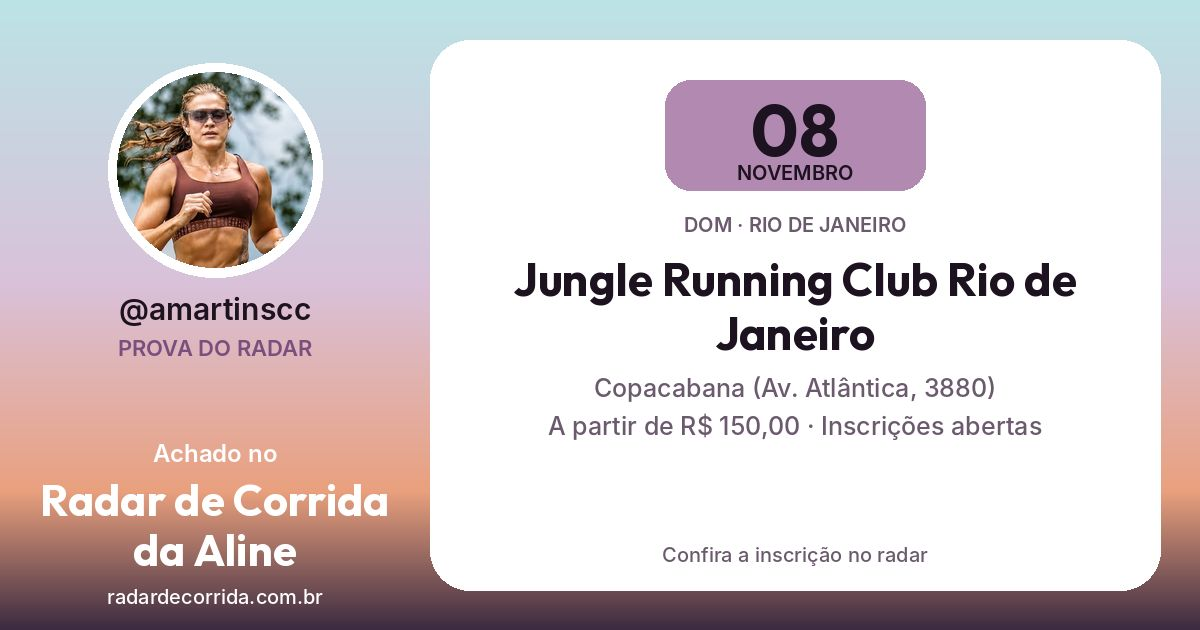
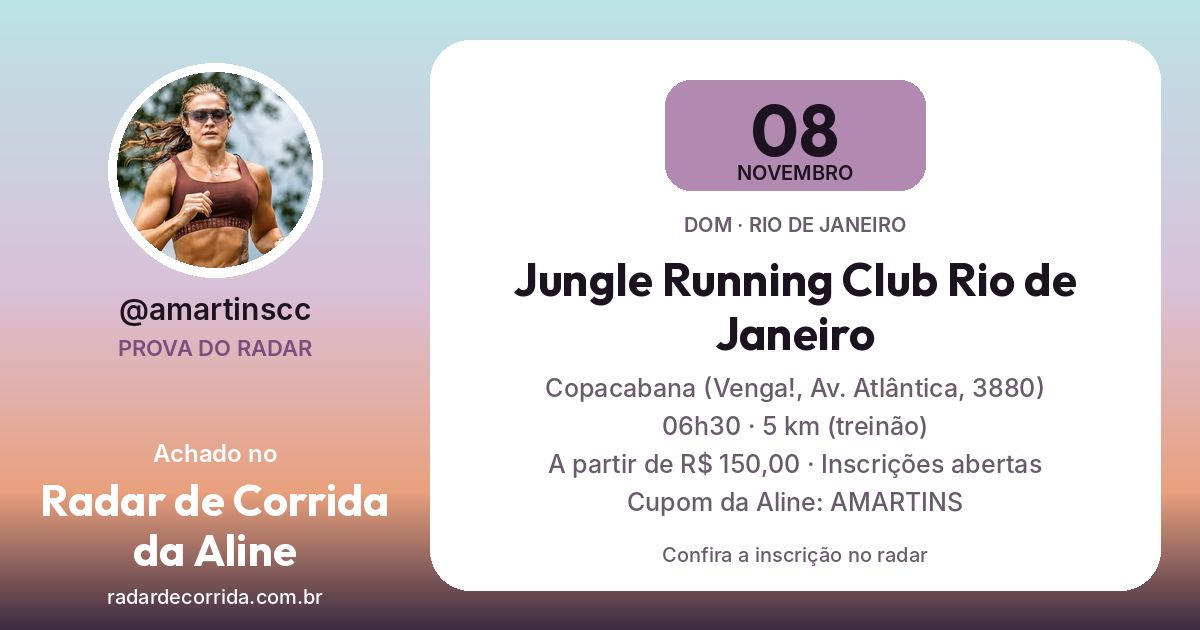
Jungle Running Club Rio com dados oficiais e cupom da Aline; cupom por prova
Claude-Session: https://claude.ai/code/session_01AmnfUhjH3e8qUhmooWSXSi

Changed region(s): [[0.4317, 0.6032, 0.8633, 0.6937], [0.4625, 0.7238, 0.8633, 0.754], [0.5242, 0.7841, 0.8017, 0.8143]]

diff --git a/prova/jungle-running-club-rio-de-janeiro-2026-11-08/index.html b/prova/jungle-running-club-rio-de-janeiro-2026-11-08/index.html
@@ -4,14 +4,14 @@
 <meta charset="utf-8">
 <meta name="viewport" content="width=device-width,initial-scale=1">
 <title>Jungle Running Club Rio de Janeiro – 8 de novembro de 2026, Rio de Janeiro · Radar de Corrida</title>
-<meta name="description" content="08 de novembro de 2026 · Copacabana (Av. Atlântica, 3880) · Inscrições abertas. Achado no Radar de Corrida da Aline.">
+<meta name="description" content="08 de novembro de 2026 · Copacabana (Venga!, Av. Atlântica, 3880) · 5 km (treinão) · Inscrições abertas. Cupom da Aline na inscrição: AMARTINS. Achado no Radar de Corrida da Aline.">
 <meta name="robots" content="index,follow,max-image-preview:large">
 <link rel="canonical" href="https://radardecorrida.com.br/prova/jungle-running-club-rio-de-janeiro-2026-11-08/">
 <meta property="og:type" content="website">
 <meta property="og:locale" content="pt_BR">
 <meta property="og:site_name" content="Radar de Corrida da Aline">
 <meta property="og:title" content="Jungle Running Club Rio de Janeiro">
-<meta property="og:description" content="08 de novembro de 2026 · Copacabana (Av. Atlântica, 3880) · Inscrições abertas. Achado no Radar de Corrida da Aline.">
+<meta property="og:description" content="08 de novembro de 2026 · Copacabana (Venga!, Av. Atlântica, 3880) · 5 km (treinão) · Inscrições abertas. Cupom da Aline na inscrição: AMARTINS. Achado no Radar de Corrida da Aline.">
 <meta property="og:url" content="https://radardecorrida.com.br/prova/jungle-running-club-rio-de-janeiro-2026-11-08/">
 <meta property="og:image" content="https://radardecorrida.com.br/og/prova-jungle-running-club-rio-de-janeiro-2026-11-08.jpg">
 <meta property="og:image:secure_url" content="https://radardecorrida.com.br/og/prova-jungle-running-club-rio-de-janeiro-2026-11-08.jpg">
@@ -23,7 +23,7 @@
 <meta name="theme-color" content="#BBE3E5">
 <link rel="icon" type="image/png" href="/favicon.png">
 <style>*{box-sizing:border-box}body{margin:0;font-family:"Plus Jakarta Sans",system-ui,-apple-system,"Segoe UI",sans-serif;background:#F6F0F6 linear-gradient(180deg,#BBE3E5 0,#D9C1D9 360px,#F6F0F6 720px) no-repeat;color:#1D1220;padding:24px 16px 40px}.c{max-width:560px;margin:0 auto;display:flex;flex-direction:column;gap:14px}img{width:100%;height:auto;border-radius:18px;display:block}h1{font:800 28px/1.1 system-ui,sans-serif;margin:0}p{margin:0;color:#6B5A6E}a.b{display:block;text-align:center;padding:13px 18px;border-radius:999px;text-decoration:none;font-weight:700}a.p{background:#B28AB1;color:#1D1220}a.s{background:#fff;color:#7A4E7D;border:1.5px solid #B28AB1}.x{text-align:center;font-size:14px}.x a{color:#7A4E7D}.n{background:#FFF0DC;color:#9A5B00;padding:10px 14px;border-radius:14px;font-weight:600}</style>
-<script type="application/ld+json">{"@context": "https://schema.org", "@type": "SportsEvent", "name": "Jungle Running Club Rio de Janeiro", "startDate": "2026-11-08", "eventAttendanceMode": "https://schema.org/OfflineEventAttendanceMode", "eventStatus": "https://schema.org/EventScheduled", "sport": "Corrida de rua", "location": {"@type": "Place", "name": "Copacabana (Av. Atlântica, 3880)", "address": {"@type": "PostalAddress", "addressRegion": "RJ", "addressCountry": "BR", "addressLocality": "Rio de Janeiro", "streetAddress": "Copacabana (Av. Atlântica, 3880)"}}, "image": ["https://radardecorrida.com.br/og/prova-jungle-running-club-rio-de-janeiro-2026-11-08.jpg"], "description": "08 de novembro de 2026 · Copacabana (Av. Atlântica, 3880) · Inscrições abertas. Achado no Radar de Corrida da Aline.", "url": "https://radardecorrida.com.br/prova/jungle-running-club-rio-de-janeiro-2026-11-08/", "offers": {"@type": "Offer", "url": "https://www.boracorrerbrasil.com.br/rio-de-janeiro/corrida/jungle-running-club-rio-de-janeiro-2026-11-08", "availability": "https://schema.org/InStock"}}</script>
+<script type="application/ld+json">{"@context": "https://schema.org", "@type": "SportsEvent", "name": "Jungle Running Club Rio de Janeiro", "startDate": "2026-11-08T06:30:00-03:00", "eventAttendanceMode": "https://schema.org/OfflineEventAttendanceMode", "eventStatus": "https://schema.org/EventScheduled", "sport": "Corrida de rua", "location": {"@type": "Place", "name": "Copacabana (Venga!, Av. Atlântica, 3880)", "address": {"@type": "PostalAddress", "addressRegion": "RJ", "addressCountry": "BR", "addressLocality": "Rio de Janeiro", "streetAddress": "Copacabana (Venga!, Av. Atlântica, 3880)"}}, "image": ["https://radardecorrida.com.br/og/prova-jungle-running-club-rio-de-janeiro-2026-11-08.jpg"], "description": "08 de novembro de 2026 · Copacabana (Venga!, Av. Atlântica, 3880) · 5 km (treinão) · Inscrições abertas. Cupom da Aline na inscrição: AMARTINS. Achado no Radar de Corrida da Aline.", "url": "https://radardecorrida.com.br/prova/jungle-running-club-rio-de-janeiro-2026-11-08/", "offers": {"@type": "Offer", "url": "https://www.sympla.com.br/evento/jungle-running-club-rio-de-janeiro/3623546", "availability": "https://schema.org/InStock"}}</script>
 <script>if(/[?&]c=1(&|$)/.test(location.search))location.replace("/#prova=jungle-running-club-rio-de-janeiro-2026-11-08");</script>
 </head>
 <body>
@@ -31,9 +31,9 @@
 
 <img src="/og/prova-jungle-running-club-rio-de-janeiro-2026-11-08.jpg" alt="Jungle Running Club Rio de Janeiro" width="1200" height="630">
 <h1>Jungle Running Club Rio de Janeiro</h1>
-<p>08 de novembro de 2026 · Copacabana (Av. Atlântica, 3880) · Inscrições abertas. Achado no Radar de Corrida da Aline.</p>
+<p>08 de novembro de 2026 · Copacabana (Venga!, Av. Atlântica, 3880) · 5 km (treinão) · Inscrições abertas. Cupom da Aline na inscrição: AMARTINS. Achado no Radar de Corrida da Aline.</p>
 <a class="b p" href="/#prova=jungle-running-club-rio-de-janeiro-2026-11-08">Ver no Radar de Corrida da Aline</a>
-<a class="b s" href="https://www.boracorrerbrasil.com.br/rio-de-janeiro/corrida/jungle-running-club-rio-de-janeiro-2026-11-08" target="_blank" rel="noopener">Ver inscrição</a>
+<a class="b s" href="https://www.sympla.com.br/evento/jungle-running-club-rio-de-janeiro/3623546" target="_blank" rel="noopener">Ver inscrição</a>
 <p class="x"><a href="/calculadora-de-pace/">Calcule seu pace e a previsão de tempo para a prova</a></p>
 </main>
 </body>

diff --git a/index.html b/index.html
@@ -338,6 +338,10 @@ section h2{font:800 22px/1 var(--display);margin:8px 0 10px}
 .partner .pcopy{align-self:flex-start;margin-top:6px;display:inline-flex;align-items:center;gap:8px;background:var(--surface);color:var(--ink);border:1.5px dashed var(--mauve);font:600 13px var(--body);padding:7px 12px;border-radius:999px;cursor:pointer}
 .partner .pcopy b{letter-spacing:.06em}
 .partner .pcopy small{color:var(--accent);font-weight:700;font-size:11px}
+.deal .rcup{display:flex;flex-wrap:wrap;align-items:center;gap:6px 10px;margin-top:8px;font-size:13px;color:var(--accent);font-weight:600}
+.deal .rcup .pcopy{display:inline-flex;align-items:center;gap:8px;background:var(--surface);color:var(--ink);border:1.5px dashed var(--mauve);font:600 13px var(--body);padding:7px 12px;border-radius:999px;cursor:pointer}
+.deal .rcup .pcopy b{letter-spacing:.06em}
+.deal .rcup .pcopy small{color:var(--accent);font-weight:700;font-size:11px}
 .partner a.arrow{text-decoration:none}
 
 /* Fotos da Aline nos cards */
@@ -3082,10 +3086,14 @@ section h2{font:800 22px/1 var(--display);margin:8px 0 10px}
    "uf": "RJ",
    "data": "2026-11-08",
    "nome": "Jungle Running Club Rio de Janeiro",
-   "local": "Copacabana (Av. Atlântica, 3880)",
-   "link": "https://www.boracorrerbrasil.com.br/rio-de-janeiro/corrida/jungle-running-club-rio-de-janeiro-2026-11-08",
+   "local": "Copacabana (Venga!, Av. Atlântica, 3880)",
+   "link": "https://www.sympla.com.br/evento/jungle-running-club-rio-de-janeiro/3623546",
    "status": "aberta",
-   "valor": 150
+   "valor": 150,
+   "hora": "06:30",
+   "distancias": "5 km (treinão)",
+   "cupom": "AMARTINS",
+   "capa": "https://images.sympla.com.br/6ad683228eb96-lg.png"
   },
   {
    "uf": "RJ",
@@ -8215,6 +8223,22 @@ section h2{font:800 22px/1 var(--display);margin:8px 0 10px}
       add('Largada:', p.hora ? p.hora.replace(':','h') : null);
       add('Distâncias:', p.distancias);
       add('A partir de:', p.valor===0 ? 'gratuita' : (typeof p.valor==='number' ? brl(p.valor) : null));
+      if(p.cupom){ // cupom da Aline para a inscrição (só manual)
+        const rc = document.createElement('div'); rc.className = 'rcup';
+        const cp = document.createElement('button'); cp.type = 'button'; cp.className = 'pcopy';
+        cp.innerHTML = 'Cupom <b></b> <small>copiar</small>'; cp.querySelector('b').textContent = p.cupom;
+        cp.setAttribute('aria-label', 'Copiar cupom ' + p.cupom);
+        cp.addEventListener('click', async ev => {
+          ev.preventDefault(); ev.stopPropagation();
+          const msg = cp.querySelector('small');
+          try{ await navigator.clipboard.writeText(p.cupom); msg.textContent = 'copiado!'; }
+          catch(e){ const r = document.createRange(); r.selectNodeContents(cp.querySelector('b')); const s = getSelection(); s.removeAllRanges(); s.addRange(r); msg.textContent = 'selecionado'; }
+          setTimeout(()=>{ msg.textContent = 'copiar'; }, 2200);
+          if(window.posthog) posthog.capture('cupom_copiado', {parceiro: p.nome, cupom: p.cupom, tipo: 'prova'});
+        });
+        const lb = document.createElement('span'); lb.textContent = 'Desconto com o cupom da Aline na inscrição';
+        rc.append(lb, cp); el.querySelector('.info').insertBefore(rc, el.querySelector('.links'));
+      }
       el.querySelector('.ins').href = p.link;
       const cal = el.querySelector('.cal');
       if(p.status==='esgotada') cal.remove(); else cal.href = calLink(p);
@@ -8403,6 +8427,7 @@ section h2{font:800 22px/1 var(--display);margin:8px 0 10px}
       const stt = ST[p.status] || '';
       const last = [pr, stt].filter(Boolean).join(' · ');
       if(last) info.push(last);
+      if(p.cupom) info.push('Cupom da Aline: ' + p.cupom);
       c.fillStyle = '#6B5A6E'; c.font = '600 38px ' + B;
       info.forEach(line => { const k = wrap(c, line, cx, yy, cw-120, 48, 2); yy += k*48 + 16; });
       if(p.aline){ c.fillStyle = '#B28AB1'; rr(c,cx-300,y0+ch-150,600,70,35); c.fill(); c.fillStyle = '#1D1220'; c.font = '800 34px ' + B; c.fillText('★ A Aline vai correr', cx, y0+ch-100); }
@@ -8447,7 +8472,7 @@ section h2{font:800 22px/1 var(--display);margin:8px 0 10px}
     // link da página do item no radar (a prévia no WhatsApp mostra a imagem e o título; o toque abre o radar)
     shKind = o ? 'tenis' : p ? 'prova' : ''; shSlug = (o||p||{}).slug || '';
     shLink = shSlug ? RADAR_URL + shKind + '/' + shSlug + '/?c=1' : RADAR_URL;
-    if(p){ const [yy,mm,dd] = p.data.split('-'); shTxt = p.nome + ' · ' + dd + '/' + mm + (p.local ? ' · ' + p.local : '') + (p.aline ? ' · a Aline vai correr!' : ''); }
+    if(p){ const [yy,mm,dd] = p.data.split('-'); shTxt = p.nome + ' · ' + dd + '/' + mm + (p.local ? ' · ' + p.local : '') + (p.aline ? ' · a Aline vai correr!' : '') + (p.cupom ? ' · cupom ' + p.cupom + ' na inscrição' : ''); }
     else if(o){ shTxt = o.nome + ' por ' + brl(o.preco) + ' (-' + o.off + '%) na ' + o.loja + (o.cupom ? ', cupom ' + o.cupom : ''); }
     else shTxt = 'Provas e ofertas de corrida todos os dias';
     shTxt += '\nAchado no Radar de Corrida da Aline 👉';

diff --git a/src/template.html b/src/template.html
@@ -284,6 +284,10 @@ section h2{font:800 22px/1 var(--display);margin:8px 0 10px}
 .partner .pcopy{align-self:flex-start;margin-top:6px;display:inline-flex;align-items:center;gap:8px;background:var(--surface);color:var(--ink);border:1.5px dashed var(--mauve);font:600 13px var(--body);padding:7px 12px;border-radius:999px;cursor:pointer}
 .partner .pcopy b{letter-spacing:.06em}
 .partner .pcopy small{color:var(--accent);font-weight:700;font-size:11px}
+.deal .rcup{display:flex;flex-wrap:wrap;align-items:center;gap:6px 10px;margin-top:8px;font-size:13px;color:var(--accent);font-weight:600}
+.deal .rcup .pcopy{display:inline-flex;align-items:center;gap:8px;background:var(--surface);color:var(--ink);border:1.5px dashed var(--mauve);font:600 13px var(--body);padding:7px 12px;border-radius:999px;cursor:pointer}
+.deal .rcup .pcopy b{letter-spacing:.06em}
+.deal .rcup .pcopy small{color:var(--accent);font-weight:700;font-size:11px}
 .partner a.arrow{text-decoration:none}
 
 /* Fotos da Aline nos cards */
@@ -822,6 +826,22 @@ __DATA__
       add('Largada:', p.hora ? p.hora.replace(':','h') : null);
       add('Distâncias:', p.distancias);
       add('A partir de:', p.valor===0 ? 'gratuita' : (typeof p.valor==='number' ? brl(p.valor) : null));
+      if(p.cupom){ // cupom da Aline para a inscrição (só manual)
+        const rc = document.createElement('div'); rc.className = 'rcup';
+        const cp = document.createElement('button'); cp.type = 'button'; cp.className = 'pcopy';
+        cp.innerHTML = 'Cupom <b></b> <small>copiar</small>'; cp.querySelector('b').textContent = p.cupom;
+        cp.setAttribute('aria-label', 'Copiar cupom ' + p.cupom);
+        cp.addEventListener('click', async ev => {
+          ev.preventDefault(); ev.stopPropagation();
+          const msg = cp.querySelector('small');
+          try{ await navigator.clipboard.writeText(p.cupom); msg.textContent = 'copiado!'; }
+          catch(e){ const r = document.createRange(); r.selectNodeContents(cp.querySelector('b')); const s = getSelection(); s.removeAllRanges(); s.addRange(r); msg.textContent = 'selecionado'; }
+          setTimeout(()=>{ msg.textContent = 'copiar'; }, 2200);
+          if(window.posthog) posthog.capture('cupom_copiado', {parceiro: p.nome, cupom: p.cupom, tipo: 'prova'});
+        });
+        const lb = document.createElement('span'); lb.textContent = 'Desconto com o cupom da Aline na inscrição';
+        rc.append(lb, cp); el.querySelector('.info').insertBefore(rc, el.querySelector('.links'));
+      }
       el.querySelector('.ins').href = p.link;
       const cal = el.querySelector('.cal');
       if(p.status==='esgotada') cal.remove(); else cal.href = calLink(p);
@@ -1010,6 +1030,7 @@ __DATA__
       const stt = ST[p.status] || '';
       const last = [pr, stt].filter(Boolean).join(' · ');
       if(last) info.push(last);
+      if(p.cupom) info.push('Cupom da Aline: ' + p.cupom);
       c.fillStyle = '#6B5A6E'; c.font = '600 38px ' + B;
       info.forEach(line => { const k = wrap(c, line, cx, yy, cw-120, 48, 2); yy += k*48 + 16; });
       if(p.aline){ c.fillStyle = '#B28AB1'; rr(c,cx-300,y0+ch-150,600,70,35); c.fill(); c.fillStyle = '#1D1220'; c.font = '800 34px ' + B; c.fillText('★ A Aline vai correr', cx, y0+ch-100); }
@@ -1054,7 +1075,7 @@ __DATA__
     // link da página do item no radar (a prévia no WhatsApp mostra a imagem e o título; o toque abre o radar)
     shKind = o ? 'tenis' : p ? 'prova' : ''; shSlug = (o||p||{}).slug || '';
     shLink = shSlug ? RADAR_URL + shKind + '/' + shSlug + '/?c=1' : RADAR_URL;
-    if(p){ const [yy,mm,dd] = p.data.split('-'); shTxt = p.nome + ' · ' + dd + '/' + mm + (p.local ? ' · ' + p.local : '') + (p.aline ? ' · a Aline vai correr!' : ''); }
+    if(p){ const [yy,mm,dd] = p.data.split('-'); shTxt = p.nome + ' · ' + dd + '/' + mm + (p.local ? ' · ' + p.local : '') + (p.aline ? ' · a Aline vai correr!' : '') + (p.cupom ? ' · cupom ' + p.cupom + ' na inscrição' : ''); }
     else if(o){ shTxt = o.nome + ' por ' + brl(o.preco) + ' (-' + o.off + '%) na ' + o.loja + (o.cupom ? ', cupom ' + o.cupom : ''); }
     else shTxt = 'Provas e ofertas de corrida todos os dias';
     shTxt += '\nAchado no Radar de Corrida da Aline 👉';

diff --git a/src/paginas.py b/src/paginas.py
@@ -131,6 +131,7 @@ def imagem(item, tipo, perfil, ofertas_em):
         pr = 'Inscrição gratuita' if item.get('valor') == 0 else ('A partir de ' + brl(item['valor']) if isinstance(item.get('valor'), (int, float)) else None)
         ult = ' · '.join(x for x in [pr, ST.get(item.get('status'), '')] if x)
         if ult: info.append(ult)
+        if item.get('cupom'): info.append('Cupom da Aline: ' + item['cupom'])
         for linha in info:
             for l in quebra(dr, linha, M(25), larg, 1):
                 centro(dr, kx, yy, l, M(25), '#6B5A6E'); yy += 34
@@ -293,7 +294,7 @@ def main():
             lugar = it.get('local') or ''
             if (it.get('uf') or 'RJ') != 'RJ': lugar = ', '.join(x for x in [lugar, (it.get('cidade') or '') + ' - ' + it['uf']] if x)
             partes = [f'{dd:02d} de {MESF[m - 1]} de {y}', lugar, it.get('distancias'), ST.get(it.get('status'))]
-            desc = ' · '.join(x for x in partes if x) + ('. A Aline vai correr!' if it.get('aline') else '.') + ' Achado no Radar de Corrida da Aline.'
+            desc = ' · '.join(x for x in partes if x) + ('. A Aline vai correr!' if it.get('aline') else '.') + (f" Cupom da Aline na inscrição: {it['cupom']}." if it.get('cupom') else '') + ' Achado no Radar de Corrida da Aline.'
             cidade = it.get('cidade') or ('Rio de Janeiro' if (it.get('uf') or 'RJ') == 'RJ' else '')
             tb = f"{it['nome']} – {dd} de {MESF[m - 1]} de {y}" + (f", {cidade}" if cidade else '')
             html_ = pagina('prova', sl, it['nome'], desc, img, f'#prova={sl}', 'Ver inscrição', it.get('link'), True, tb, evento(it, sl, img, desc))

diff --git a/RESUMO.md b/RESUMO.md
@@ -21,6 +21,7 @@ Leia este arquivo antes de mexer no radar. Atualize-o sempre que mudar regras, t
 - `ofertas`: `{loja, nome, marca, preco, de, link, genero}` + `cupom?`, `condicao?`, `foto?`. Foto = URL direta da imagem do próprio modelo/cor na loja (og:image), sem rastreamento; sem foto certa, omitir. Nunca usar AMARTINS em tênis. Links limpos, sem afiliado. Só corrida/running.
 - `provas`: `{uf, data, nome, local, link, status}` + `hora?, distancias?, valor?, cidade?, lat?, lng?, regiao?, capa?`. `capa` = URL https da arte oficial do evento (og:image da página do próprio evento/organizador, conferindo nome e data); a lista mostra a capa e, se faltar ou falhar, o bloco de data. Nunca imagem de página de calendário geral, genérica do site ou de outra edição. Capas não são baixadas: ficam como link para a imagem do organizador. **Cumulativas**: só saem quando a data passa; canceladas ficam com status `cancelada`. Fora do RJ precisa de `cidade` + `lat/lng`.
 - Selo **"A Aline vai correr"** (`"aline": true`): **só manual**. As tarefas nunca põem nem tiram.
+- Cupom da Aline numa prova (`"cupom": "AMARTINS"`, desde 22/10/2026, primeira: Jungle Running Club Rio, 08/11): **só manual**. O cartão mostra "Desconto com o cupom da Aline na inscrição" com botão de copiar (evento `cupom_copiado` com `tipo: prova`); entra também na imagem de story, no texto de compartilhar e na página/prévia da prova. As tarefas nunca põem, tiram nem mudam.
 - Na aba Provas: cada prova tem botão de compartilhar e o filtro **"A Aline vai correr"** mostra só as provas com `aline: true`.
 
 ## Páginas de compartilhamento (desde 16/10/2026)
